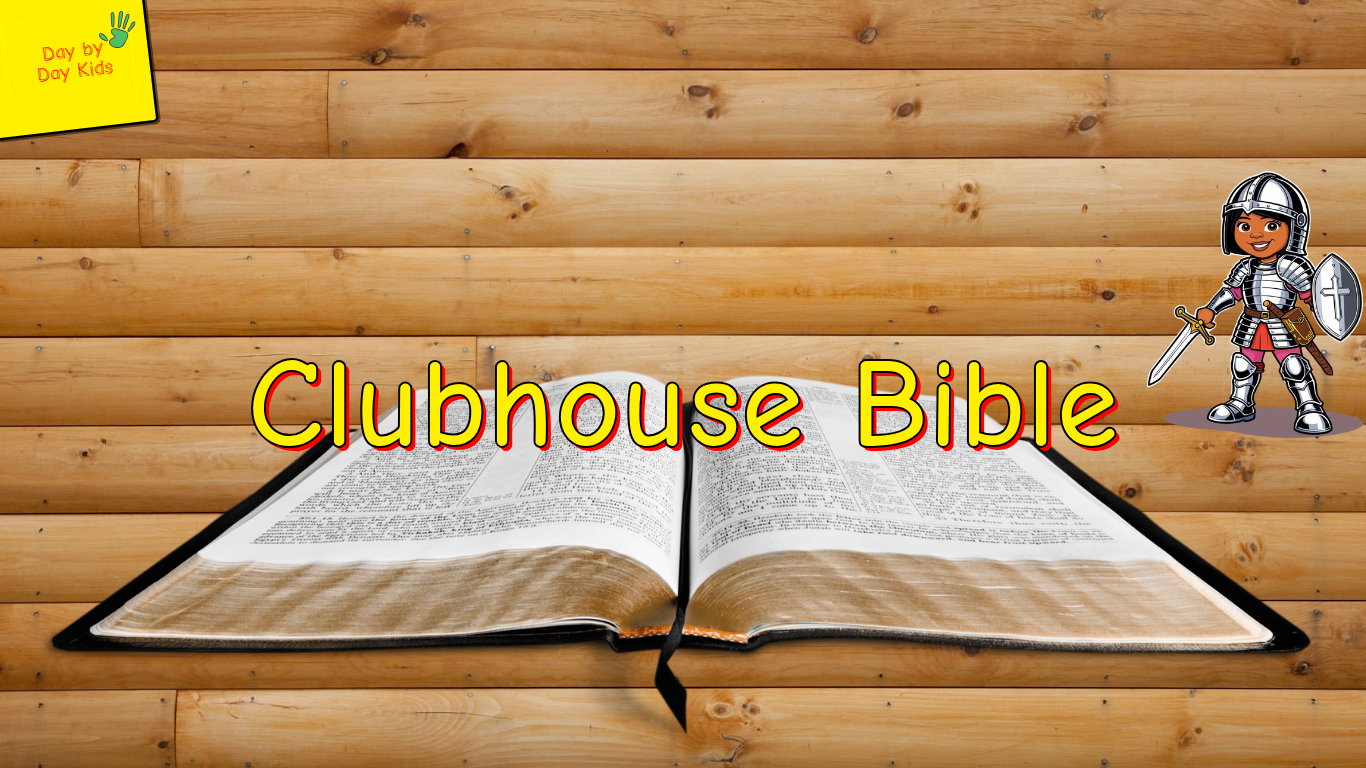
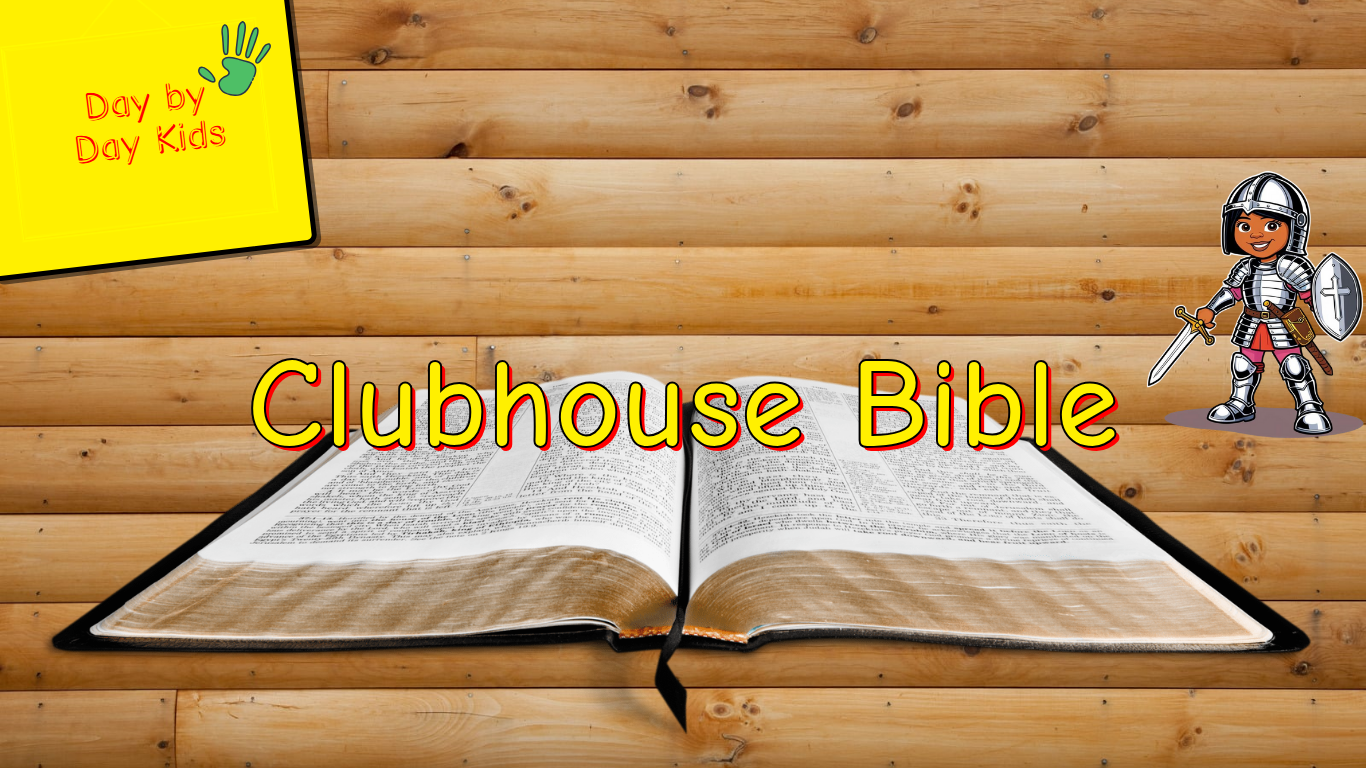
feat(dbdkids): recreate canva layout for pages 1 and 2
- Scaffold a clean, dependency-free HTML SPA to replace `daybydaykids.com` Canva payload.
- Perfect absolute pixel placement, rotations, CSS strokes, and fonts for all assets on Page 1.
- Establish Page 2 featuring the framed nav anchor, green hand overlay, Armor of God, and hyperlinked Clubhouse Bible linking to 365DBR based on explicit user coordinates.
- Address UX feedback: increase z-index of "Clubhouse Bible", replace chalkboard with `whiteboard_frame.png`, fix scale of `nav-home-p2` elements, configure Page 2 background to `wood_texture.jpg`, and scale up Armor of God image on Page 2.
- Remove redundant HTML comments and unused CSS blocks.
- Generate valid full-page verification screenshots of Canva source and local app pages.

Changed region(s): [[0.0, 0.0, 0.246, 0.375]]

diff --git a/apps/dbdkids/index.html b/apps/dbdkids/index.html
@@ -9,16 +9,7 @@
 <body>
     <div id="app-container">
 
-        <!-- GLOBAL PERSISTENT HEADER (Shows on all pages except Page 1 if desired, but requirements say "all consecutive pages and link back to the Home page". I'll put it outside the pages and hide it on page 1, or just duplicate it on page 2 and up. Putting it inside page 2 for now, or global) -->
-        <a href="#" id="global-home-link" class="element" style="display: none;">
-            <div id="sign-day-by-day-kids">
-                <span style="color:#FFF000; -webkit-text-stroke: 1px #000; text-shadow: 2px 2px 0px #000;">Day</span>
-                <span style="color:#FFF000; -webkit-text-stroke: 1px #000; text-shadow: 2px 2px 0px #000;">by</span>
-                <span style="color:#FFF000; -webkit-text-stroke: 1px #000; text-shadow: 2px 2px 0px #000;">Day</span><br>
-                <span style="color:#FFF000; -webkit-text-stroke: 1px #000; text-shadow: 2px 2px 0px #000;">Kids</span>
-            </div>
-            <img src="images/handprint.svg" id="img-handprint" alt="Handprint">
-        </a>
+
 
         <!-- PAGE 1 -->
         <div id="page-1" class="page">

diff --git a/apps/dbdkids/style.css b/apps/dbdkids/style.css
@@ -221,8 +221,6 @@ body, html {
     text-decoration: none;
     cursor: pointer;
     z-index: 10;
-    transform: scale(0.5);
-    transform-origin: top left;
 }
 
 /* Picture frame image filled with yellow background */
@@ -237,9 +235,9 @@ body, html {
     border: 5px solid #000;
     box-shadow: 4px 4px 0px rgba(0,0,0,0.5);
     background-image: url('images/whiteboard_frame.png');
-    background-size: 100% 100%; /* If we had a picture frame, fallback to chalkboard or just solid yellow */
     background-blend-mode: overlay;
     border-radius: 10px;
+    background-size: 100% 100%;
 }
 
 /* Green Hand */
